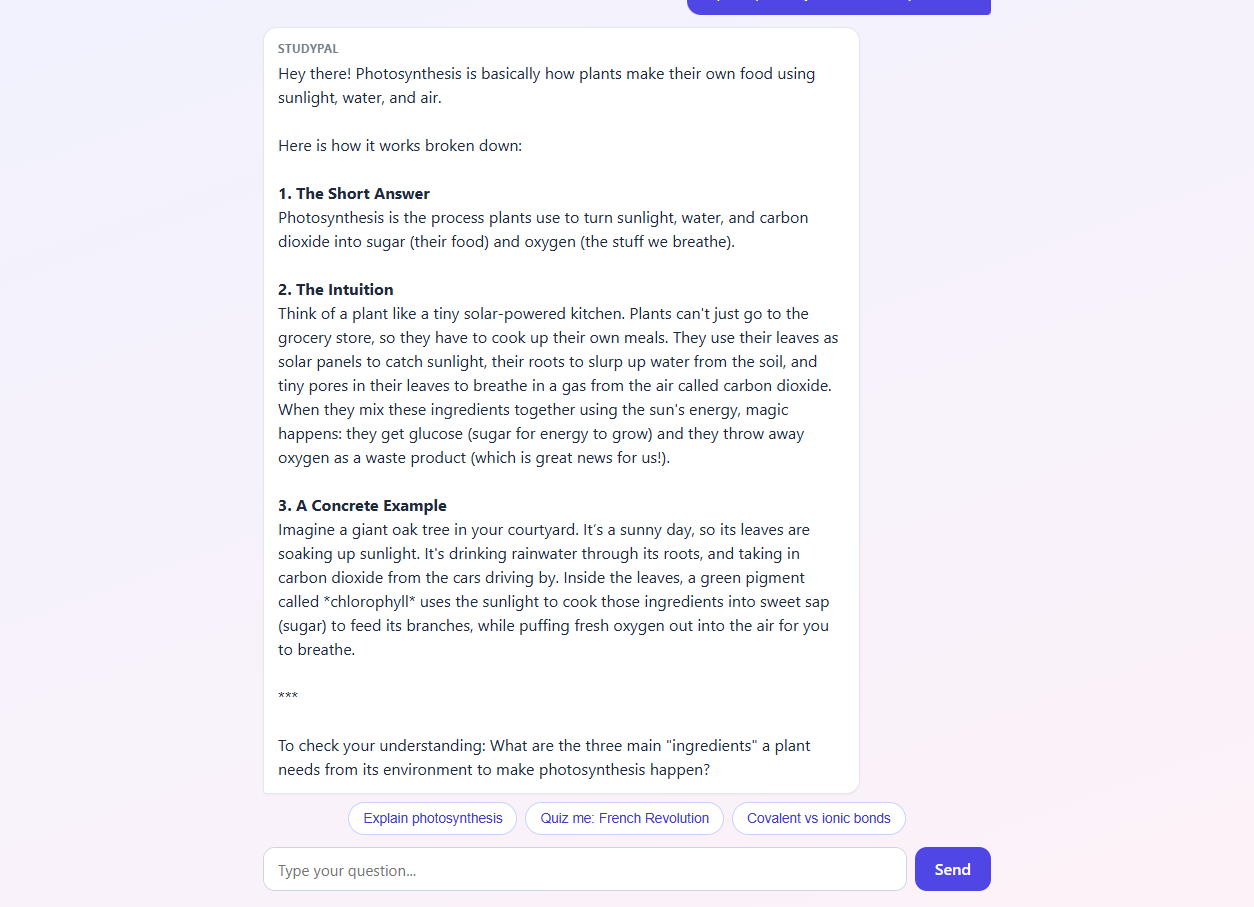
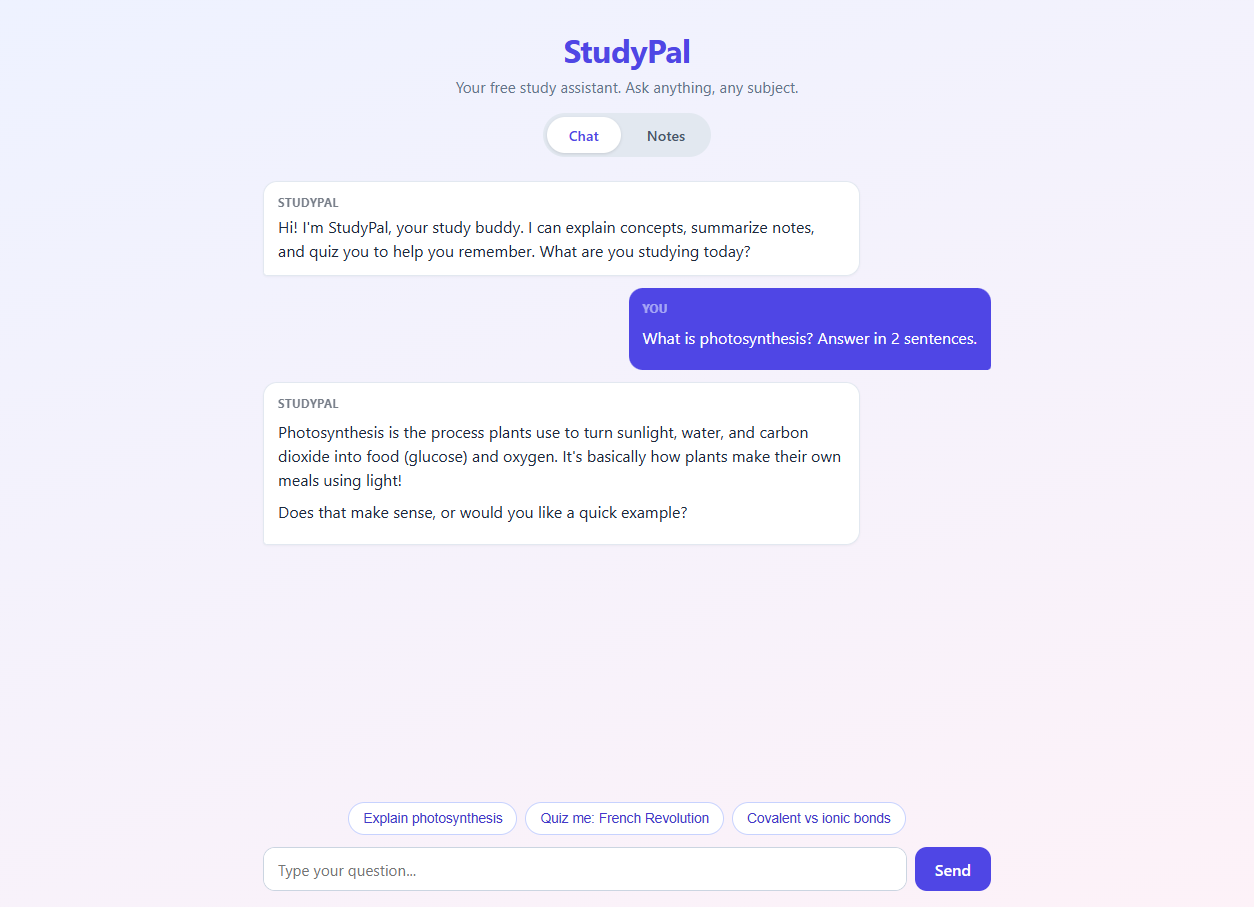
Add screenshots to README

diff --git a/README.md b/README.md
@@ -10,6 +10,15 @@ A free study assistant for college students. Chat with an AI tutor, or paste you
 
 > The demo runs on Render's free tier, so the first load after a period of inactivity can take 30–60 seconds while the server wakes up.
 
+![StudyPal chat interface](docs/studypal-chat.png)
+
+<details>
+<summary>Notes tab: paste notes, get a summary, flashcards, or a quiz</summary>
+
+![StudyPal notes tab](docs/studypal-notes.png)
+
+</details>
+
 ## Why it's free
 
 - **Google Gemini API** has a generous free tier.
